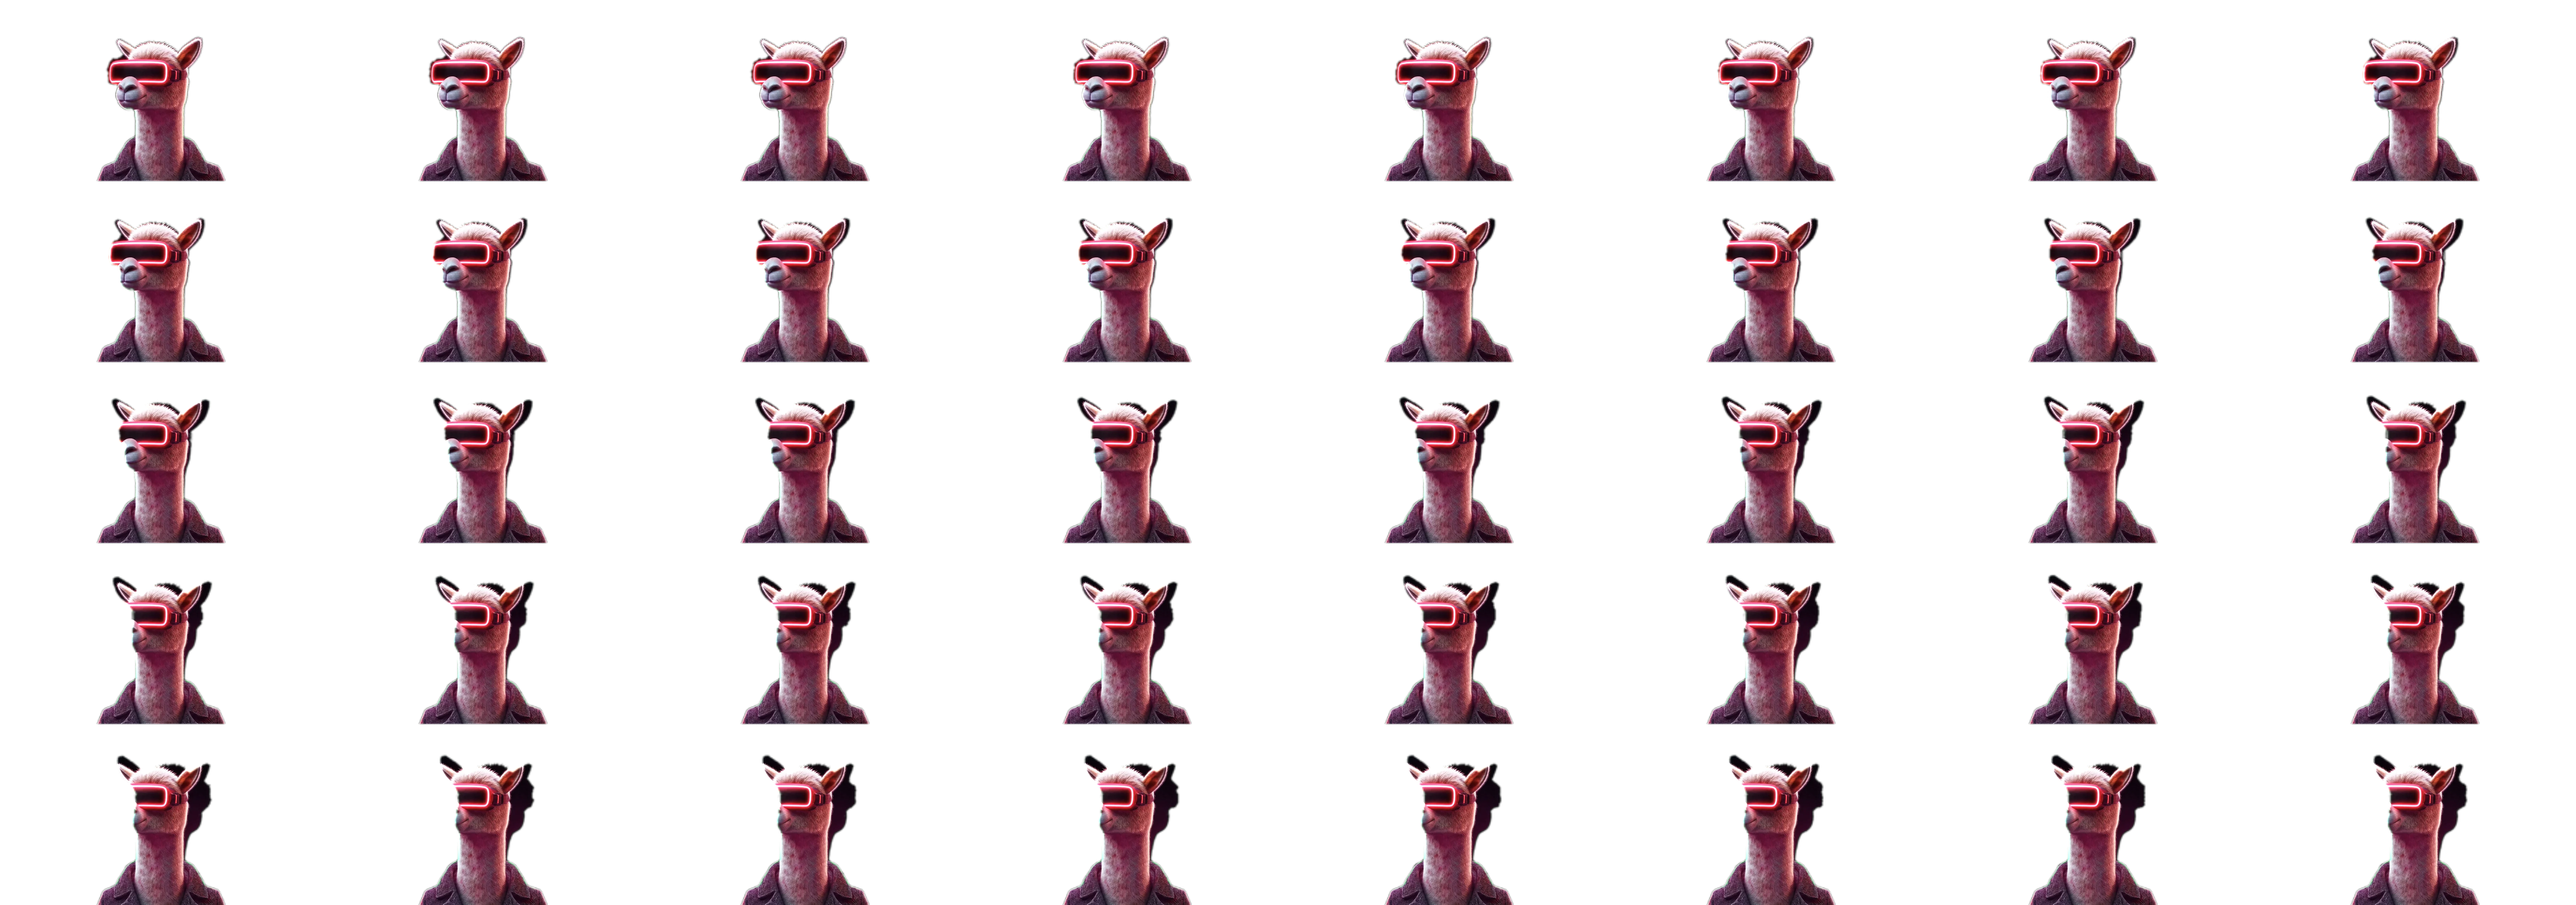
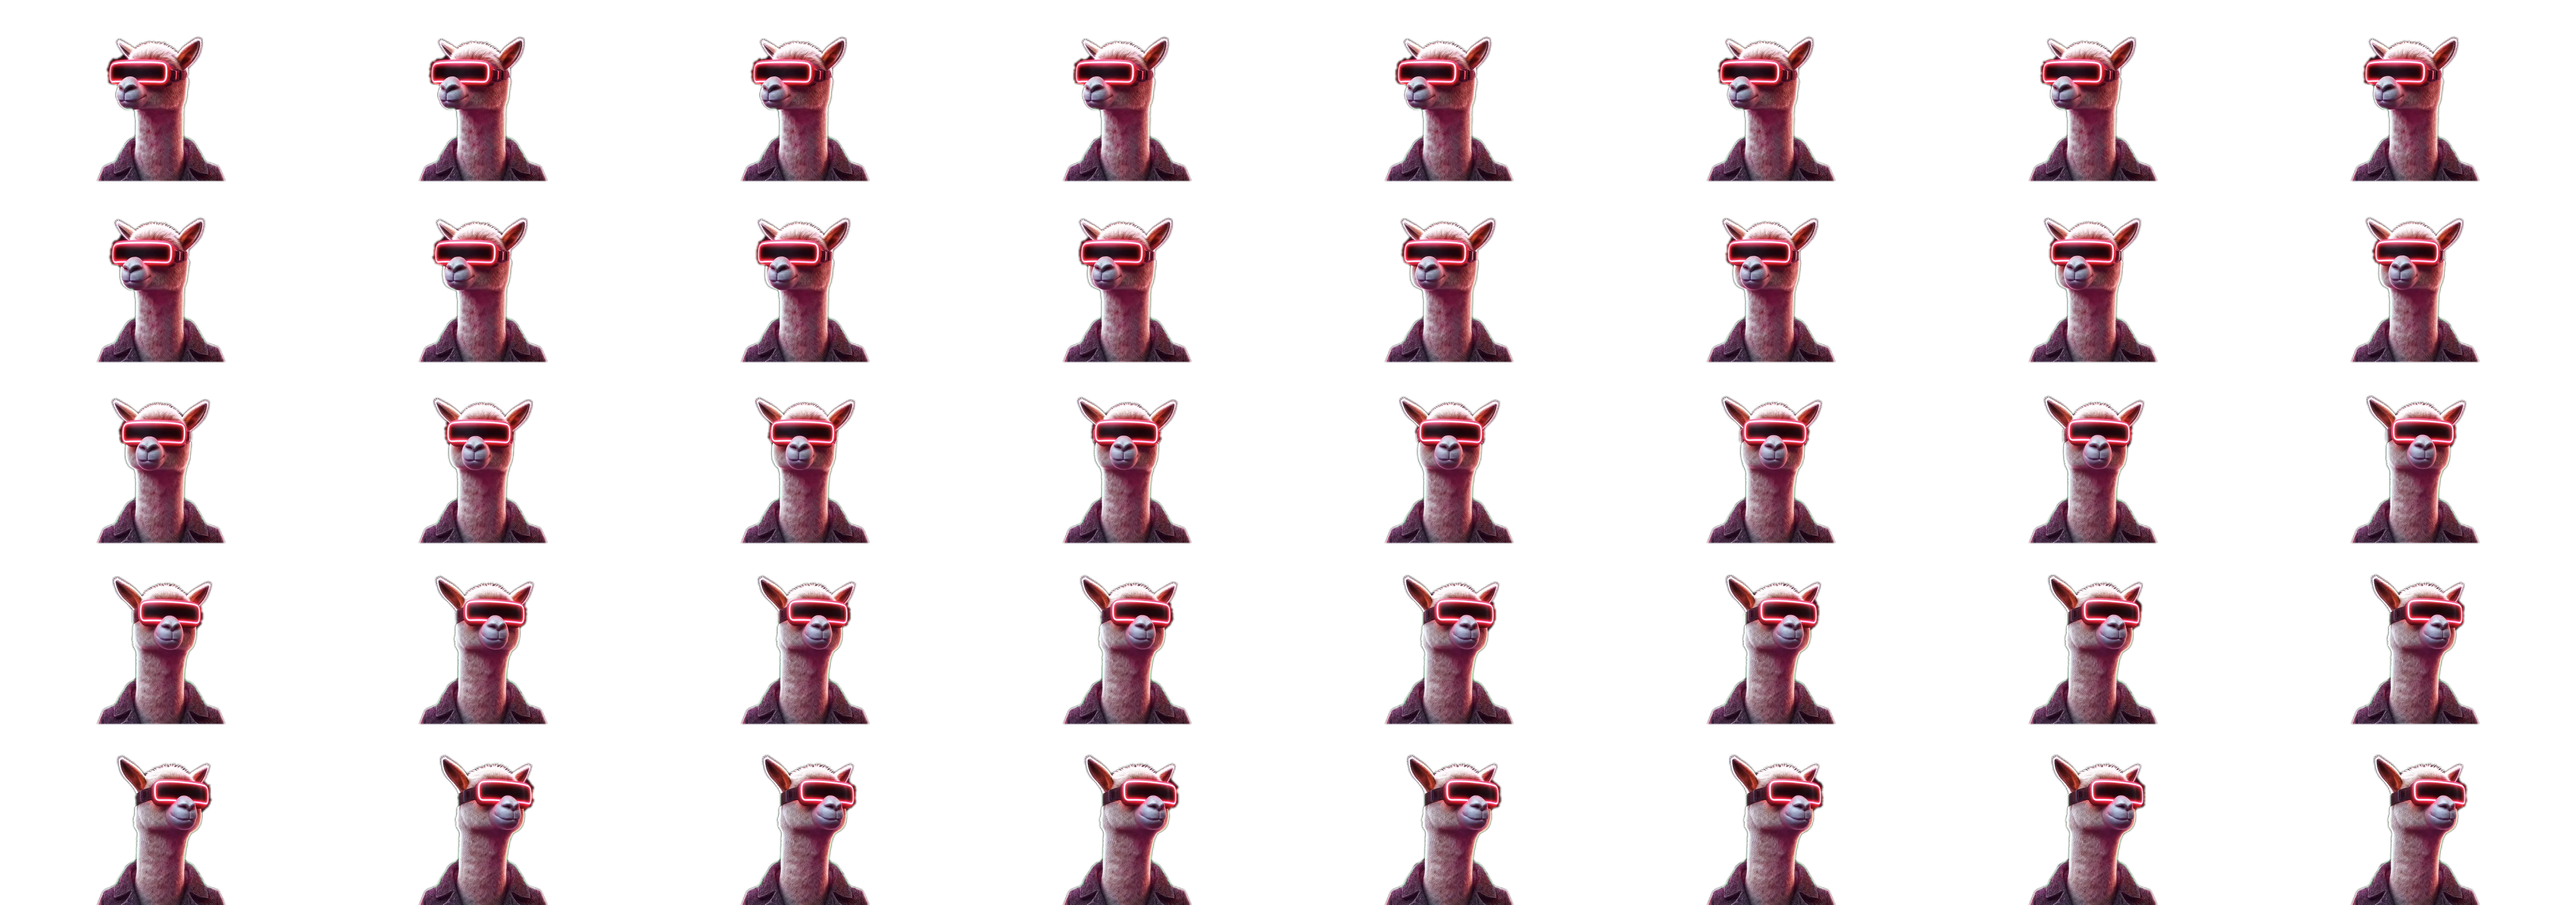
Синхронизировать кадры hero с маской

diff --git a/scripts/bake_subject_atlas.py b/scripts/bake_subject_atlas.py
@@ -32,9 +32,19 @@ async ({ videoUrl, maskUrl, mode, frames, cols, rows, tileWidth, tileHeight,
   video.muted = true;
   video.playsInline = true;
   video.preload = 'auto';
-  video.src = videoUrl;
+  const videoResponse = await fetch(videoUrl);
+  if (!videoResponse.ok) {
+    throw new Error(`Failed to load video: ${videoResponse.status}`);
+  }
+  // Bake from a fully buffered Blob. SimpleHTTPRequestHandler does not provide
+  // reliable byte-range seeking, so drawing immediately after seeked could keep
+  // the first decoded frame while the mask advanced through the atlas.
+  video.src = URL.createObjectURL(await videoResponse.blob());
   document.body.appendChild(video);
   await waitFor(video, 'loadedmetadata');
+  if (video.readyState < 2) {
+    await waitFor(video, 'loadeddata');
+  }
 
   const seek = async (time) => {
     const safeTime = Math.min(Math.max(time, 0), Math.max(video.duration - 0.002, 0));
